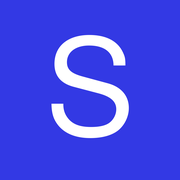
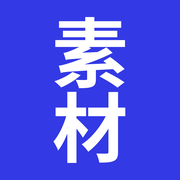
앱 아이콘을 素材 한자 아이콘으로 교체

Changed region(s): [[0.2778, 0.0833, 0.7222, 0.9167]]

diff --git a/index.html b/index.html
@@ -11,8 +11,8 @@
 <meta property="og:type" content="website">
 <meta property="og:url" content="https://koretorian-byte.github.io/panel-shop/">
 <link rel="manifest" href="manifest.webmanifest">
-<link rel="icon" href="favicon.ico?v=2" sizes="any"><link rel="icon" type="image/png" href="favicon.png?v=2">
-<link rel="apple-touch-icon" href="apple-touch-icon.png?v=2">
+<link rel="icon" href="favicon.ico?v=3" sizes="any"><link rel="icon" type="image/png" href="favicon.png?v=3">
+<link rel="apple-touch-icon" href="apple-touch-icon.png?v=3">
 <meta name="theme-color" content="#3339e4">
 <style>
   :root{--bg:#f5f4f0;--card:#fcfbf7;--line:#d9d5cd;--text:#242321;--muted:#6b6862;--accent:#3339e4;--accent-soft:#e6e7fb;--soft:#ecebe7;--sand:#cfc6b4;--ok:#3f7d4e;--warn:#b4372c;--eta:#9a6a1f;--r:4px}
